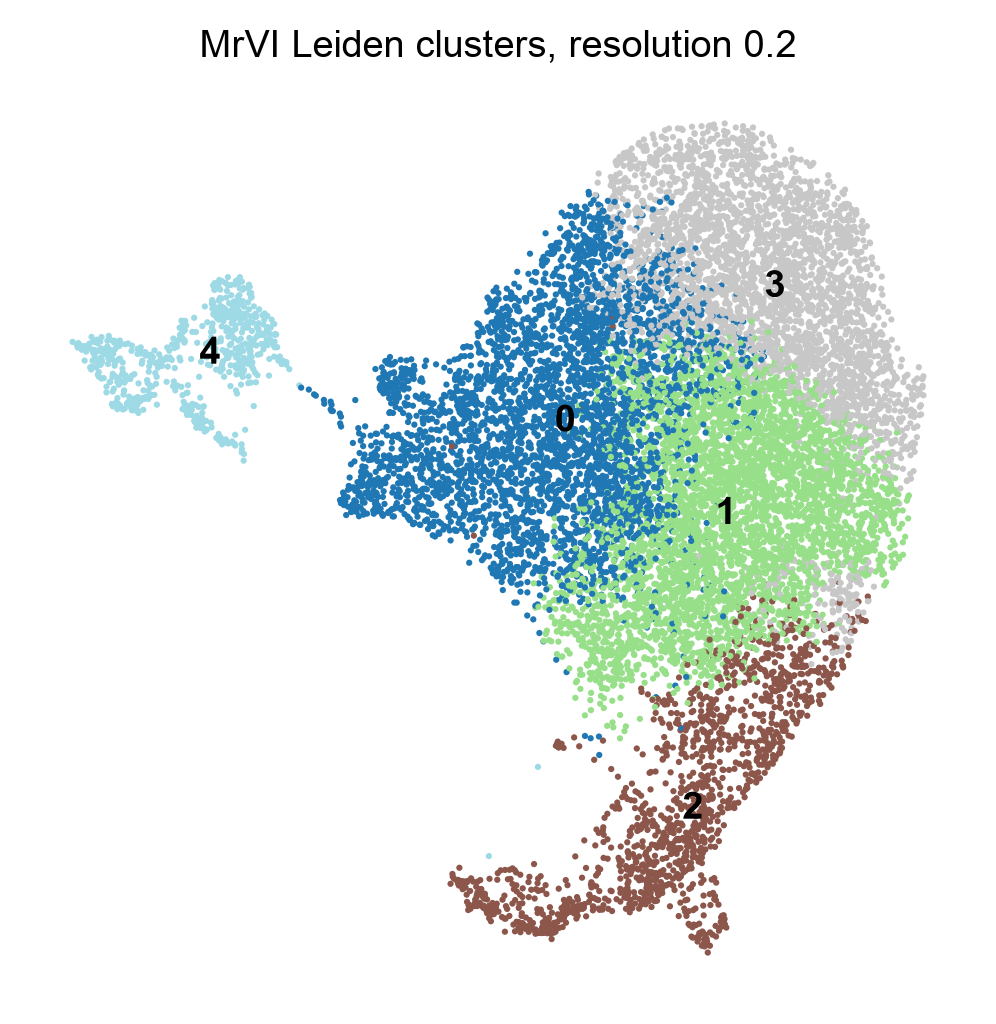
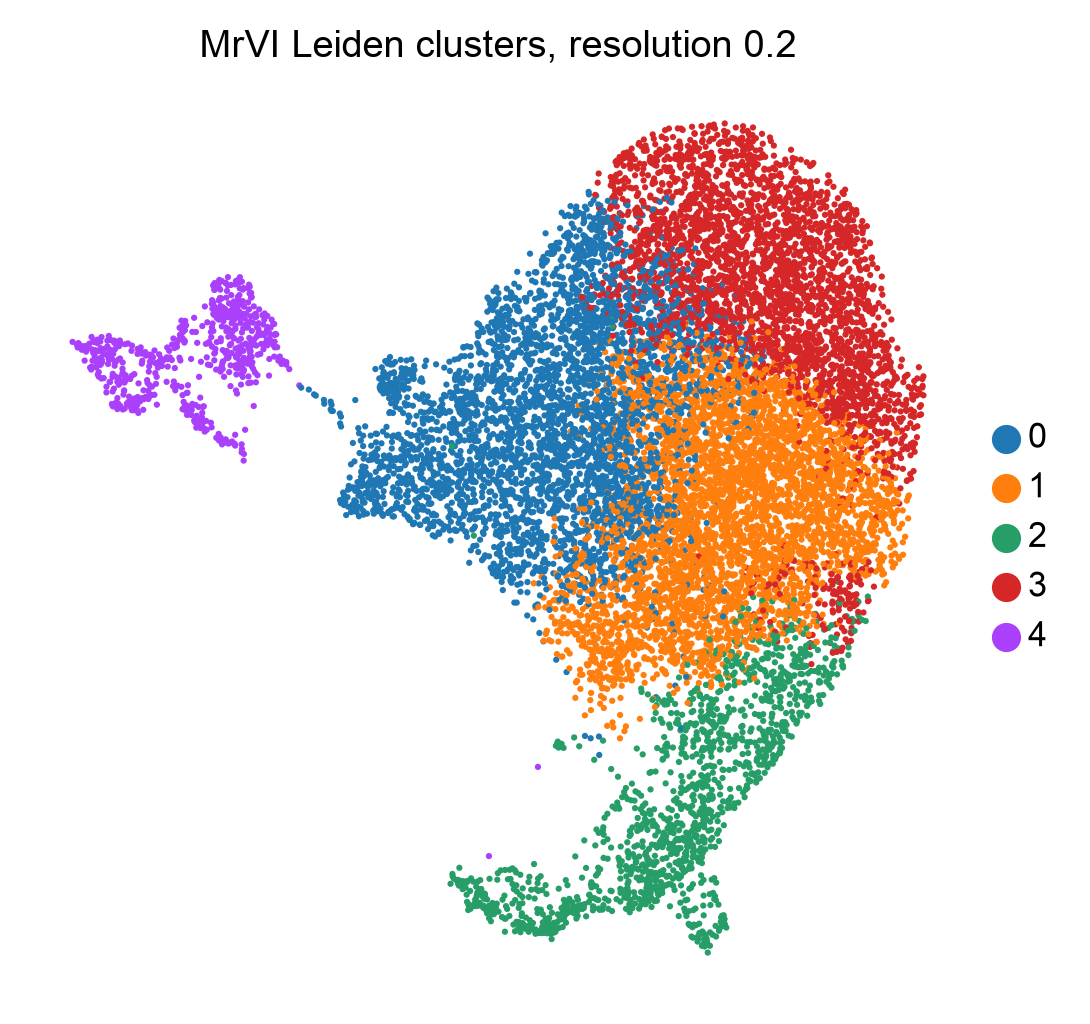
adding DE test

Changed region(s): [[0.0622, 0.0938, 0.9649, 0.9375], [0.1867, 0.0312, 0.8092, 0.0625]]

diff --git a/mrvi_plots.py b/mrvi_plots.py
@@ -9,11 +9,32 @@ from utils import (
     LEIDEN_KEY,
     LEIDEN_RESOLUTION,
     MYO_MARKERS,
-    TARGET_GENES,
+    N_TOP_DE_GENES,
+    SEURAT_HEATMAP_CMAP,
     configure_plotting,
     present_genes,
+    savecsv,
     savefig,
 )
+
+
+def find_de_genes(adata, groupby, n_genes):
+    """Runs rank_genes_groups (scanpy's equivalent of Seurat's FindAllMarkers)
+    and returns the top n_genes markers per cluster as a tidy dataframe."""
+
+    sc.tl.rank_genes_groups(adata, groupby=groupby, method="wilcoxon")
+
+    de = sc.get.rank_genes_groups_df(adata, group=None)
+    de = de.groupby("group", sort=False).head(n_genes).reset_index(drop=True)
+    de = de.rename(columns={
+        "group": "cluster",
+        "names": "gene",
+        "scores": "score",
+        "logfoldchanges": "log2fc",
+        "pvals": "pval",
+        "pvals_adj": "pval_adj",
+    })
+    return de[["cluster", "gene", "score", "log2fc", "pval", "pval_adj"]]
 
 
 def main():
@@ -23,21 +44,64 @@ def main():
     adata = sc.read_h5ad(H5AD_MRVI)
 
     # Plot UMAP and leiden subclusters
-    sc.pl.umap(adata, color=LEIDEN_KEY, palette="tab20", legend_loc="on data",
-              title=f"MrVI Leiden clusters, resolution {LEIDEN_RESOLUTION}")
+    sc.pl.umap(
+        adata,
+        color=LEIDEN_KEY,
+        legend_loc="right margin",
+        frameon=False,
+        title=f"MrVI Leiden clusters, resolution {LEIDEN_RESOLUTION}",
+        show=False,
+    )
     savefig("01_umap_subclusters.png")
 
-    # In case the filtering dropped our targets, ensure myo marker, SELENON, ELL2 are present
-    genes = present_genes(adata, MYO_MARKERS + TARGET_GENES)
+    # Differential expression per cluster, to characterize each cluster by its top markers
+    de_genes = find_de_genes(adata, LEIDEN_KEY, N_TOP_DE_GENES)
+    savecsv(de_genes, "de_genes_per_cluster.csv")
+
+    # Heatmap of the top DE genes per cluster, Seurat DoHeatmap-style purple/black/yellow scale
+    sc.pl.rank_genes_groups_heatmap(
+        adata,
+        n_genes=N_TOP_DE_GENES,
+        groupby=LEIDEN_KEY,
+        standard_scale="var",
+        swap_axes=True,
+        cmap=SEURAT_HEATMAP_CMAP,
+        dendrogram=False,
+        show=False,
+    )
+    savefig("02_de_genes_heatmap.png")
+
+    # Verify the DE test against the myo markers: myo markers + top 1 DE gene per cluster
+    # (skip genes already among the myo markers so each cluster contributes a new gene)
+    top_de_genes = (
+        de_genes[~de_genes["gene"].isin(MYO_MARKERS)]
+        .groupby("cluster", sort=False)
+        .head(1)["gene"]
+        .drop_duplicates()
+        .tolist()
+    )
+    myo_markers = present_genes(adata, MYO_MARKERS)
+    genes = present_genes(adata, MYO_MARKERS + top_de_genes)
 
     # Plot dotplot of the selected genes per cluster
-    sc.pl.dotplot(adata, var_names=genes, groupby=LEIDEN_KEY,
-                  standard_scale="var", cmap="Reds")
-    savefig("02_dotplot_markers.png")
+    sc.pl.dotplot(
+        adata,
+        var_names=genes,
+        groupby=LEIDEN_KEY,
+        standard_scale="var",
+        cmap="Reds",
+        dendrogram=False,
+        show=False,
+    )
+    savefig("03_dotplot_markers.png")
 
-    # Feature plot of the target genes 
-    sc.pl.umap(adata, color=genes, ncols=3, cmap="viridis")
-    savefig("03_featureplot_targets.png")
+    # Feature plot of the myo markers
+    sc.pl.umap(adata, color=myo_markers, ncols=3, cmap="viridis", show=False)
+    savefig("04_featureplot_myomarkers.png")
+
+    # Feature plot of the top DE gene per cluster
+    sc.pl.umap(adata, color=top_de_genes, ncols=3, cmap="viridis", show=False)
+    savefig("05_featureplot_de_genes.png")
 
 
 if __name__ == "__main__":

diff --git a/utils.py b/utils.py
@@ -10,6 +10,7 @@ import matplotlib as mpl
 import matplotlib.pyplot as plt
 import pandas as pd
 import scanpy as sc
+from matplotlib.colors import LinearSegmentedColormap
 
 # pandas 3 string dtype breaks h5ad writing without this
 anndata.settings.allow_write_nullable_strings = True
@@ -22,13 +23,22 @@ H5AD_MRVI = PROJECT_DIR / "musc_mrvi.h5ad"          # mrvi constructed object
 H5AD_CELLRANK = PROJECT_DIR / "musc_cellrank.h5ad"  # cellrank constructed object
 MRVI_MODEL_DIR = PROJECT_DIR / "mrvi_model"         # trained MrVI model
 FIG_DIR = PROJECT_DIR / "figures"                   # output figures
+TABLES_DIR = PROJECT_DIR / "tables"                 # output tables (DE genes, etc.)
 
-SAMPLE_KEY = "orig.ident"   # sample identifier column 
+SAMPLE_KEY = "orig.ident"   # sample identifier column
 LEIDEN_KEY = "leiden_musc"  # leiden clustering key in adata.obs
 
 # Myo markers + targets
-MYO_MARKERS = ["PAX7", "MYF5", "MYOD1", "MYOG"]
+MYO_MARKERS = ["PAX7", "PAX3", "MYF5", "MYOD1", "MYOG"]
 TARGET_GENES = ["SELENON", "ELL2"]
+
+# Differential expression (sc.tl.rank_genes_groups, the scanpy equivalent of Seurat's FindAllMarkers)
+N_TOP_DE_GENES = 10  # top markers to keep per cluster
+
+# Purple/black/yellow scale matching Seurat's default DoHeatmap palette
+SEURAT_HEATMAP_CMAP = LinearSegmentedColormap.from_list(
+    "seurat_purple_yellow", ["magenta", "black", "yellow"]
+)
 
 # MrVI
 SEED = 4269             
@@ -57,12 +67,23 @@ def configure_plotting():
 def savefig(path, fig=None, close=True):
     """Saves current figure to figures/. From MingKe"""
     path = Path(path)
+    if not path.is_absolute():
+        path = FIG_DIR / path
     path.parent.mkdir(parents=True, exist_ok=True)
     if fig is None:
         fig = plt.gcf()
     fig.savefig(path, bbox_inches="tight")
     if close:
         plt.close(fig)
+
+
+def savecsv(df, path):
+    """Saves a dataframe to tables/."""
+    path = Path(path)
+    if not path.is_absolute():
+        path = TABLES_DIR / path
+    path.parent.mkdir(parents=True, exist_ok=True)
+    df.to_csv(path, index=False)
 
 
 def present_genes(adata, genes):

diff --git a/cellrank_trajectory.py b/cellrank_trajectory.py
@@ -24,14 +24,20 @@ import numpy as np
 import scanpy as sc
 
 from cellrank.kernels import PseudotimeKernel
+from cellrank.kernels import ConnectivityKernel
 
 from utils import (
     H5AD_CELLRANK,
     H5AD_MRVI,
+    LEIDEN_KEY,
     SEED,
+    KERNEL_WEIGHT_CONNECTIVITY,
+    KERNEL_WEIGHT_DIRECTIONAL,
+    present_genes,
     configure_plotting,
     savefig,
 )
+
 
 # To find a root we need to evaluate expression of myo markers (PAX7)
 def get_expression(adata, gene):
@@ -91,14 +97,29 @@ def main():
     adata = compute_dpt(adata, root)
 
     # Build the PseudotimeKernel based on the computed DPT pseudotime
-    adata = PseudotimeKernel(adata, time_key = "dpt_pseudotime").compute_transition_matrix(threshold_scheme="soft")
+    pk = PseudotimeKernel(adata, time_key="dpt_pseudotime").compute_transition_matrix(threshold_scheme="soft")
 
     # Visualize the DPT pseudotime on the UMAP embedding
-    sc.pl.umap(adata, color="dpt_pseudotime", cmap="plasma")
+    sc.pl.umap(adata, color="dpt_pseudotime", cmap="plasma", show=False)
     savefig("04_cellrank_pseudotime.png")
 
-    adata.write_h5ad(H5AD_CELLRANK)
 
+    # Additional plots from Figure 2 of Theis et al. 2024
+
+    # Build connectivity kernel and combine with directional pseudotime 
+    ck = ConnectivityKernel(adata).compute_transition_matrix()
+    combined_kernel = (
+        KERNEL_WEIGHT_DIRECTIONAL * pk + KERNEL_WEIGHT_CONNECTIVITY * ck
+    )
+
+    # Project transition streamlines onto the UMAP
+    combined_kernel.plot_projection(
+        basis="umap", color=LEIDEN_KEY, legend_loc="right", recompute=True
+    )
+    savefig("05_cellrank_streamlines.png")
+
+    # Save final AnnData object
+    adata.write_h5ad(H5AD_CELLRANK)
 
 if __name__ == "__main__":
     main()
